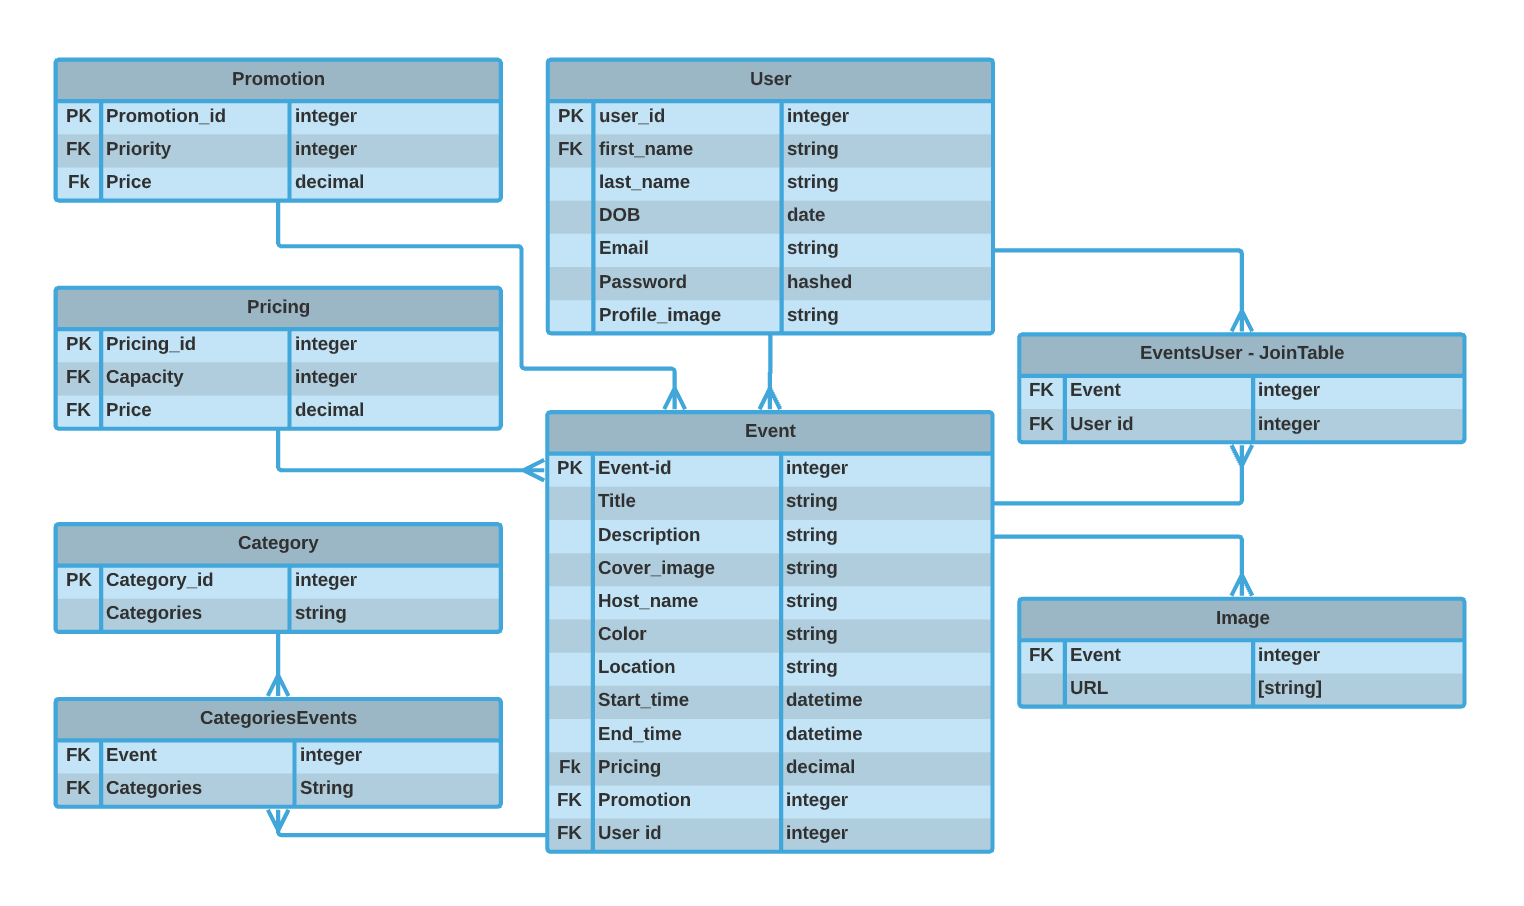
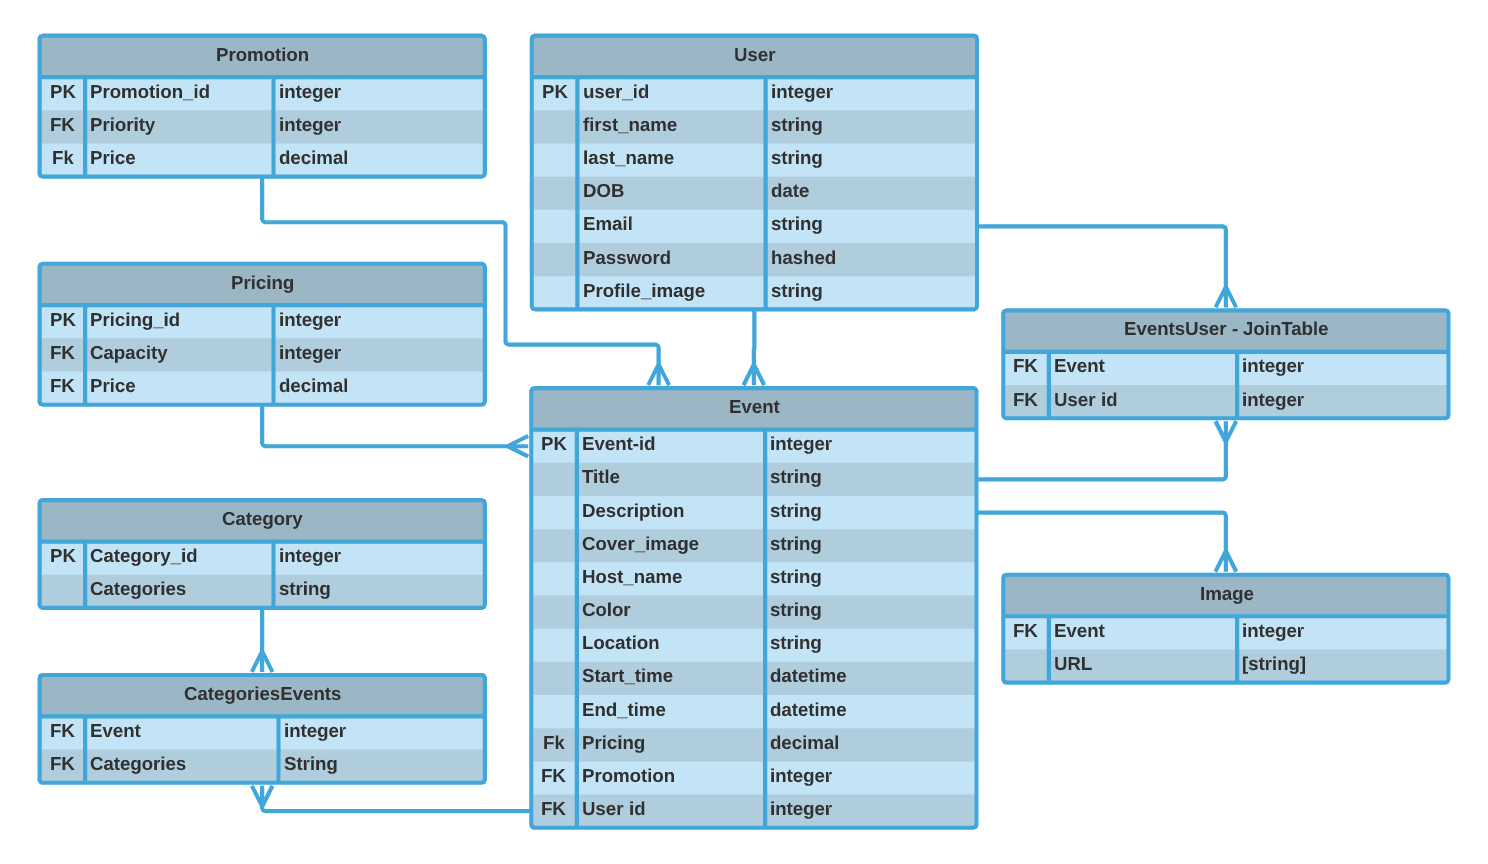
Updated ERD and Readme

Changed region(s): [[0.0, 0.0312, 0.9892, 0.9688]]

diff --git a/README.md b/README.md
@@ -315,7 +315,9 @@ ___
 
 ![CodeMeetr Database](https://github.com/alexleybourne/CodeMeetr/blob/master/docs/CodeMeetr_Database_ERD.png?raw=true)
 
-Databases in rails use active record assosciations to creat reationships between the different modls present in the databse. There are also foreign key and primary keys to form the foundations of relational databases. These keys are used to create the connections between the different models. 
+Databases in rails use active record assosciations to creat reationships between the different modls present in the databse. There are also foreign key and primary keys to form the foundations of relational databases. These keys are used to create the connections between the different models. The database is built using postgreSQL , which creates migrations holding the queries and form our database schema. 
+
+The Database focuses on users and events. They are the two largest data sets. As shown above they depend on eachother. An event cannot be created without a user. Each user has
 
 ----
 ## Project plan and Task Management :book:
